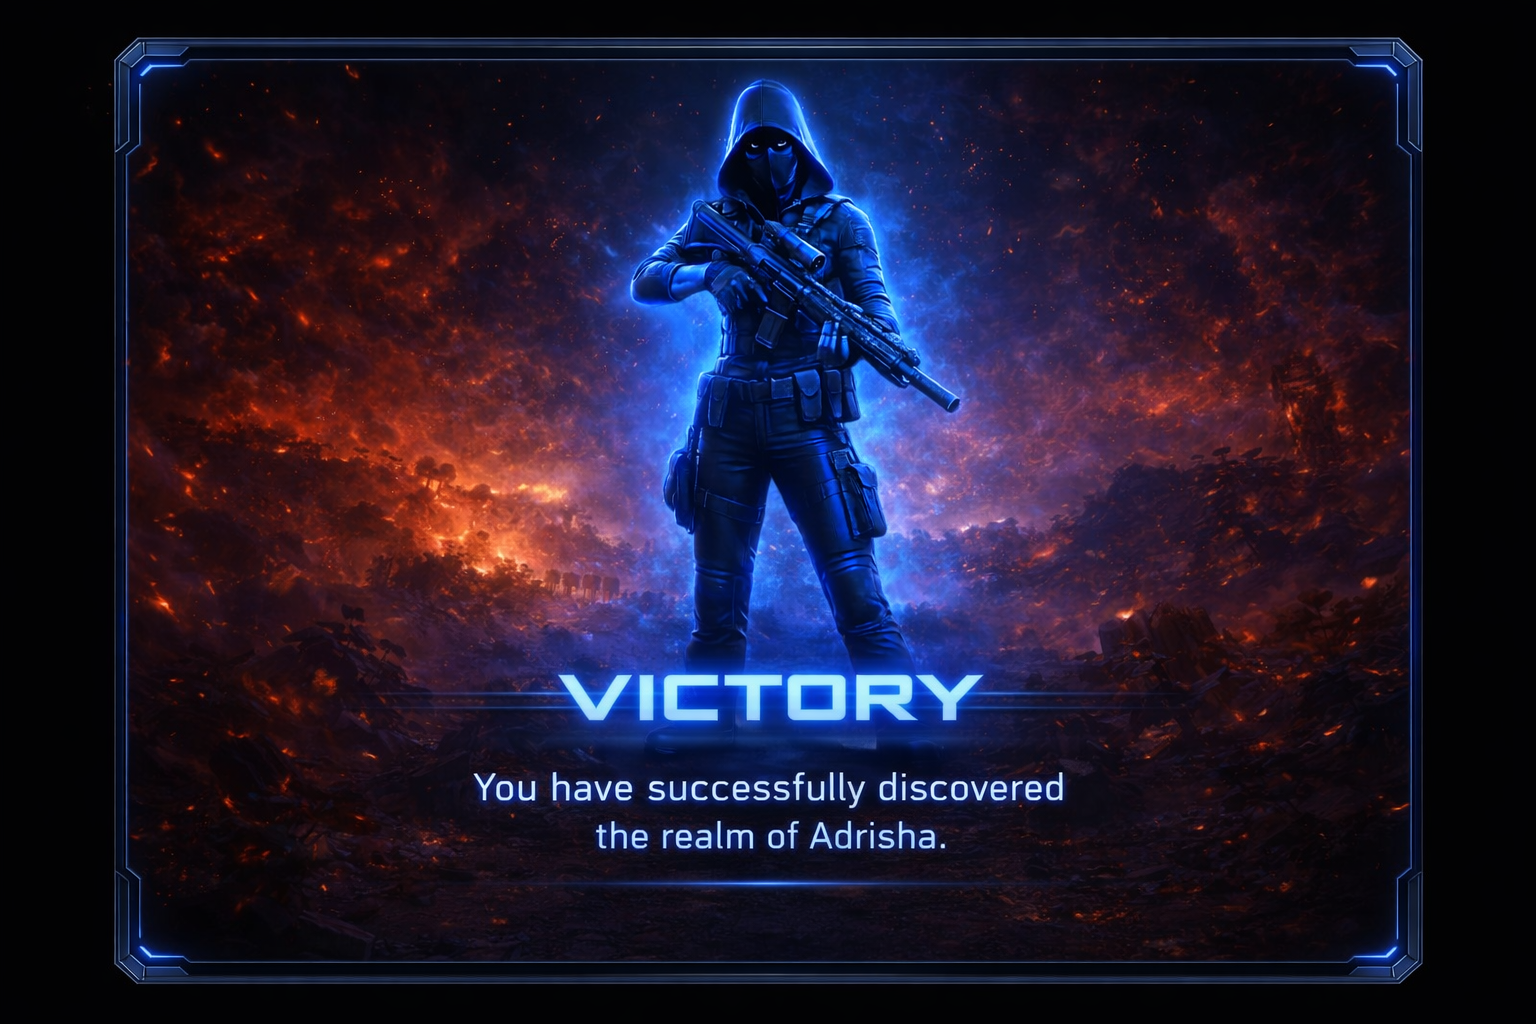
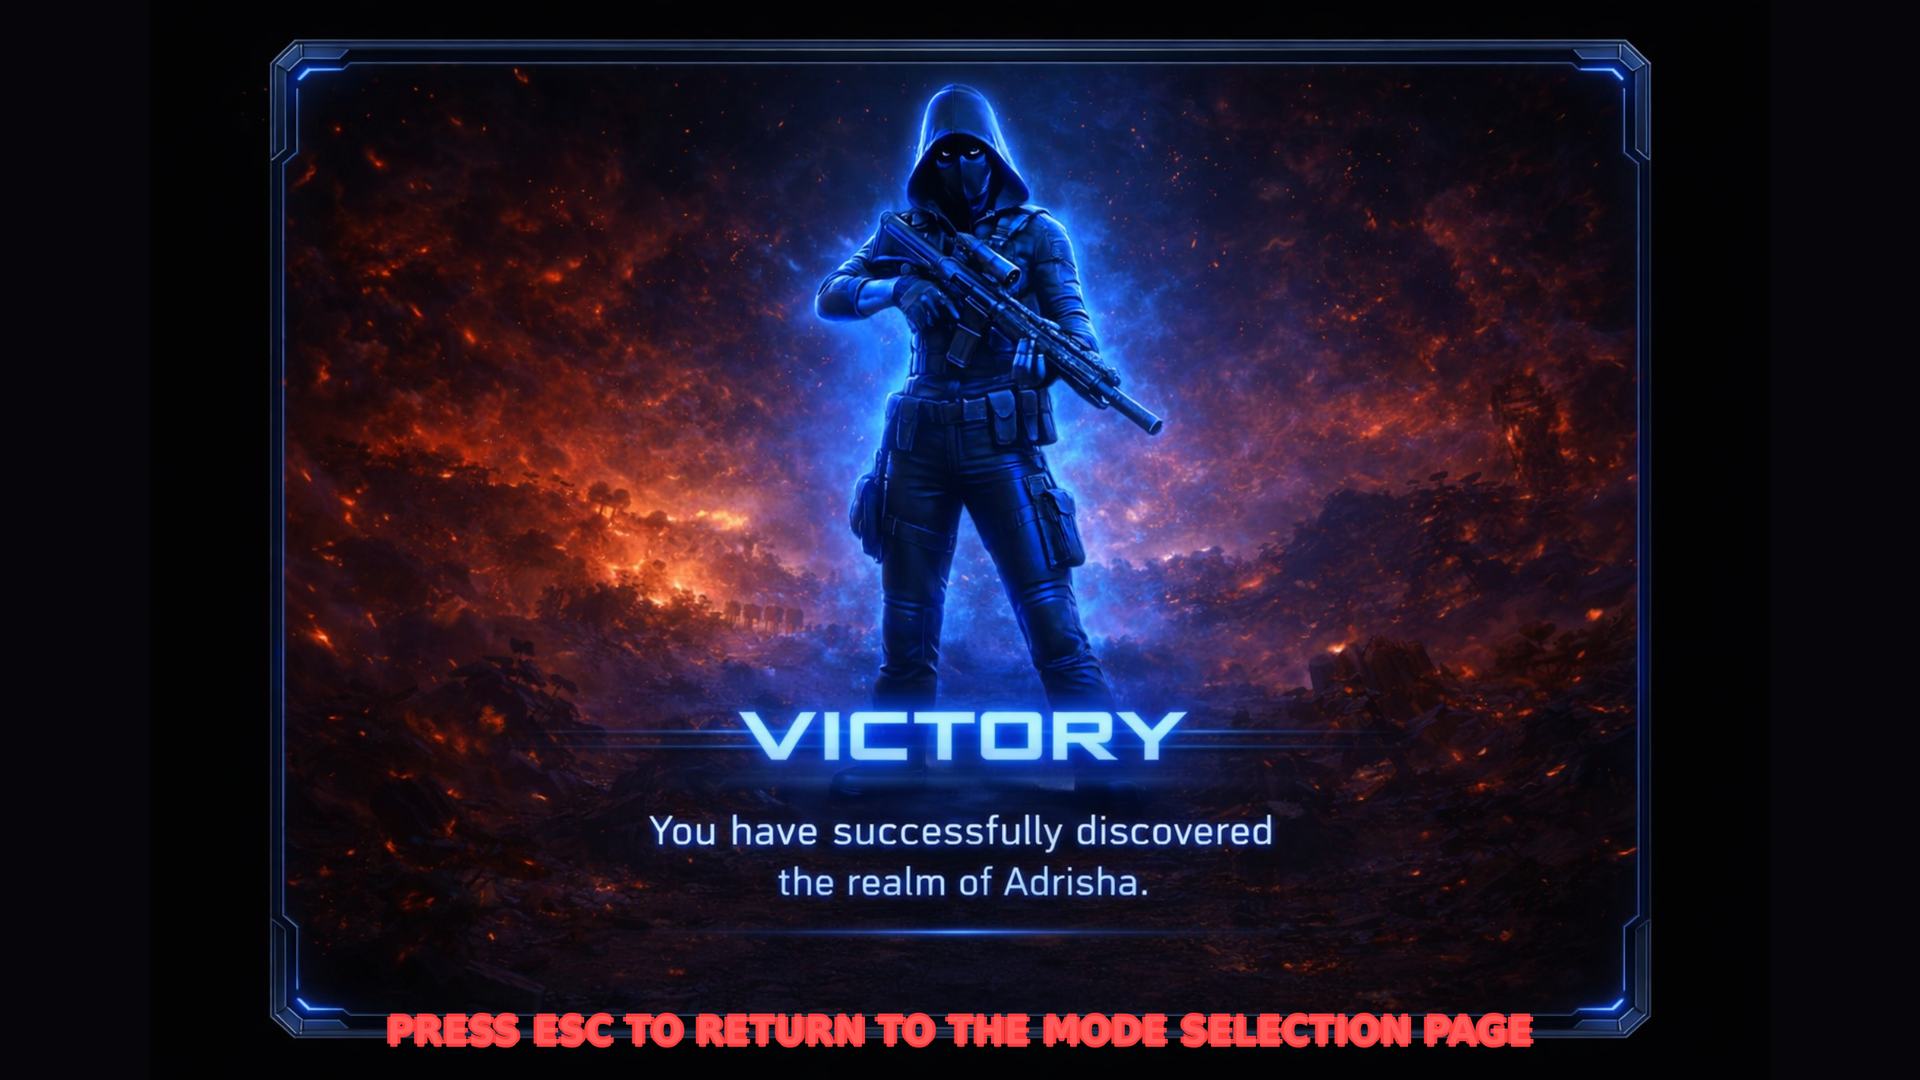
feat: implement delayed victory trigger and update help modal
Add 'victoryPending' state and modify victory logic; update Help modal for ESC instruction.

diff --git a/app/page.tsx b/app/page.tsx
@@ -30,6 +30,7 @@ export default function Home() {
   // Battle Mode score state (persists across battle-related page navigation)
   const [battleScore, setBattleScore] = useState(0)
   const [battleHitAvatars, setBattleHitAvatars] = useState<Set<number>>(new Set())
+  const [victoryPending, setVictoryPending] = useState(false)
 
   const handleRoleConfirmed = useCallback((role: string) => {
     setTransitioning(true)
@@ -225,9 +226,10 @@ export default function Home() {
   const handleBattleBack = useCallback(() => {
     setTransitioning(true)
     setTimeout(() => {
-      // Reset battle score when exiting battle mode
+      // Reset battle score and victoryPending when exiting battle mode
       setBattleScore(0)
       setBattleHitAvatars(new Set())
+      setVictoryPending(false)
       setScreen("mode")
       setTransitioning(false)
     }, 600)
@@ -237,10 +239,16 @@ export default function Home() {
   const handleBackToBattle = useCallback(() => {
     setTransitioning(true)
     setTimeout(() => {
-      setScreen("battle")
+      // Check if victory is pending (score reached 100%)
+      if (victoryPending) {
+        // Redirect to victory screen instead of battle
+        setScreen("victory")
+      } else {
+        setScreen("battle")
+      }
       setTransitioning(false)
     }, 600)
-  }, [])
+  }, [victoryPending])
 
   const handleBattleNavigate = useCallback((page: string) => {
     const validScreens = ["profile", "abilities", "missions", "alliances", "contact"] as const
@@ -251,20 +259,18 @@ export default function Home() {
     }
   }, [])
 
+  // Called when score reaches 100% - sets pending flag instead of immediate redirect
   const handleVictory = useCallback(() => {
-    setTransitioning(true)
-    setTimeout(() => {
-      setScreen("victory")
-      setTransitioning(false)
-    }, 600)
+    setVictoryPending(true)
   }, [])
 
   const handleVictoryEscape = useCallback(() => {
     setTransitioning(true)
     setTimeout(() => {
-      // Reset battle score when exiting victory screen
+      // Reset battle score and victoryPending when exiting victory screen
       setBattleScore(0)
       setBattleHitAvatars(new Set())
+      setVictoryPending(false)
       setScreen("mode")
       setTransitioning(false)
     }, 600)

diff --git a/components/victory-screen.tsx b/components/victory-screen.tsx
@@ -59,24 +59,6 @@ export function VictoryScreen({ onEscape }: VictoryScreenProps) {
         <SoundToggle position="inline" />
         <HelpButton />
       </div>
-
-      {/* Bottom Escape Instruction */}
-      <div
-        className={`fixed inset-x-0 bottom-8 z-[20] flex justify-center transition-all duration-1000 delay-500 ${
-          mounted ? "translate-y-0 opacity-100" : "translate-y-4 opacity-0"
-        }`}
-      >
-        <p
-          className="font-mono text-sm uppercase tracking-[0.25em] sm:text-base"
-          style={{
-            color: "rgba(255, 80, 80, 0.95)",
-            textShadow:
-              "0 0 10px rgba(255, 50, 50, 0.8), 0 0 20px rgba(255, 50, 50, 0.5), 0 0 30px rgba(255, 50, 50, 0.3)",
-          }}
-        >
-          Press ESCAPE to return to Mode Selection
-        </p>
-      </div>
     </div>
   )
 }

diff --git a/components/battle-screen.tsx b/components/battle-screen.tsx
@@ -482,14 +482,10 @@ export function BattleScreen({
       setHitAvatars((prev) => new Set(prev).add(index))
       setScore((prev) => {
         const newScore = Math.min(prev + 20, 100)
-        // Check for victory condition
-        if (newScore >= 100) {
-          // Delay victory screen to allow final animation to complete
-          setTimeout(() => {
-            if (onVictory) {
-              onVictory()
-            }
-          }, 1800)
+        // When score reaches 100%, set victoryPending flag (handled by parent)
+        // The actual redirect happens when user returns from the avatar page
+        if (newScore >= 100 && onVictory) {
+          onVictory()
         }
         return newScore
       })

diff --git a/components/help-button.tsx b/components/help-button.tsx
@@ -107,6 +107,15 @@ export function HelpButton() {
                     From Battle Mode it returns to Mode Selection. From inner pages it returns to the view you came from.
                   </p>
                 </section>
+
+                <section>
+                  <h3 className="mb-1.5 text-xs uppercase tracking-[0.2em]" style={{ color: "#00CFFF" }}>
+                    Victory Screen
+                  </h3>
+                  <p>
+                    On the Victory page, pressing <strong className="text-white/90">ESC</strong> will return you to the Mode Selection page.
+                  </p>
+                </section>
               </div>
             </div>
           </div>
